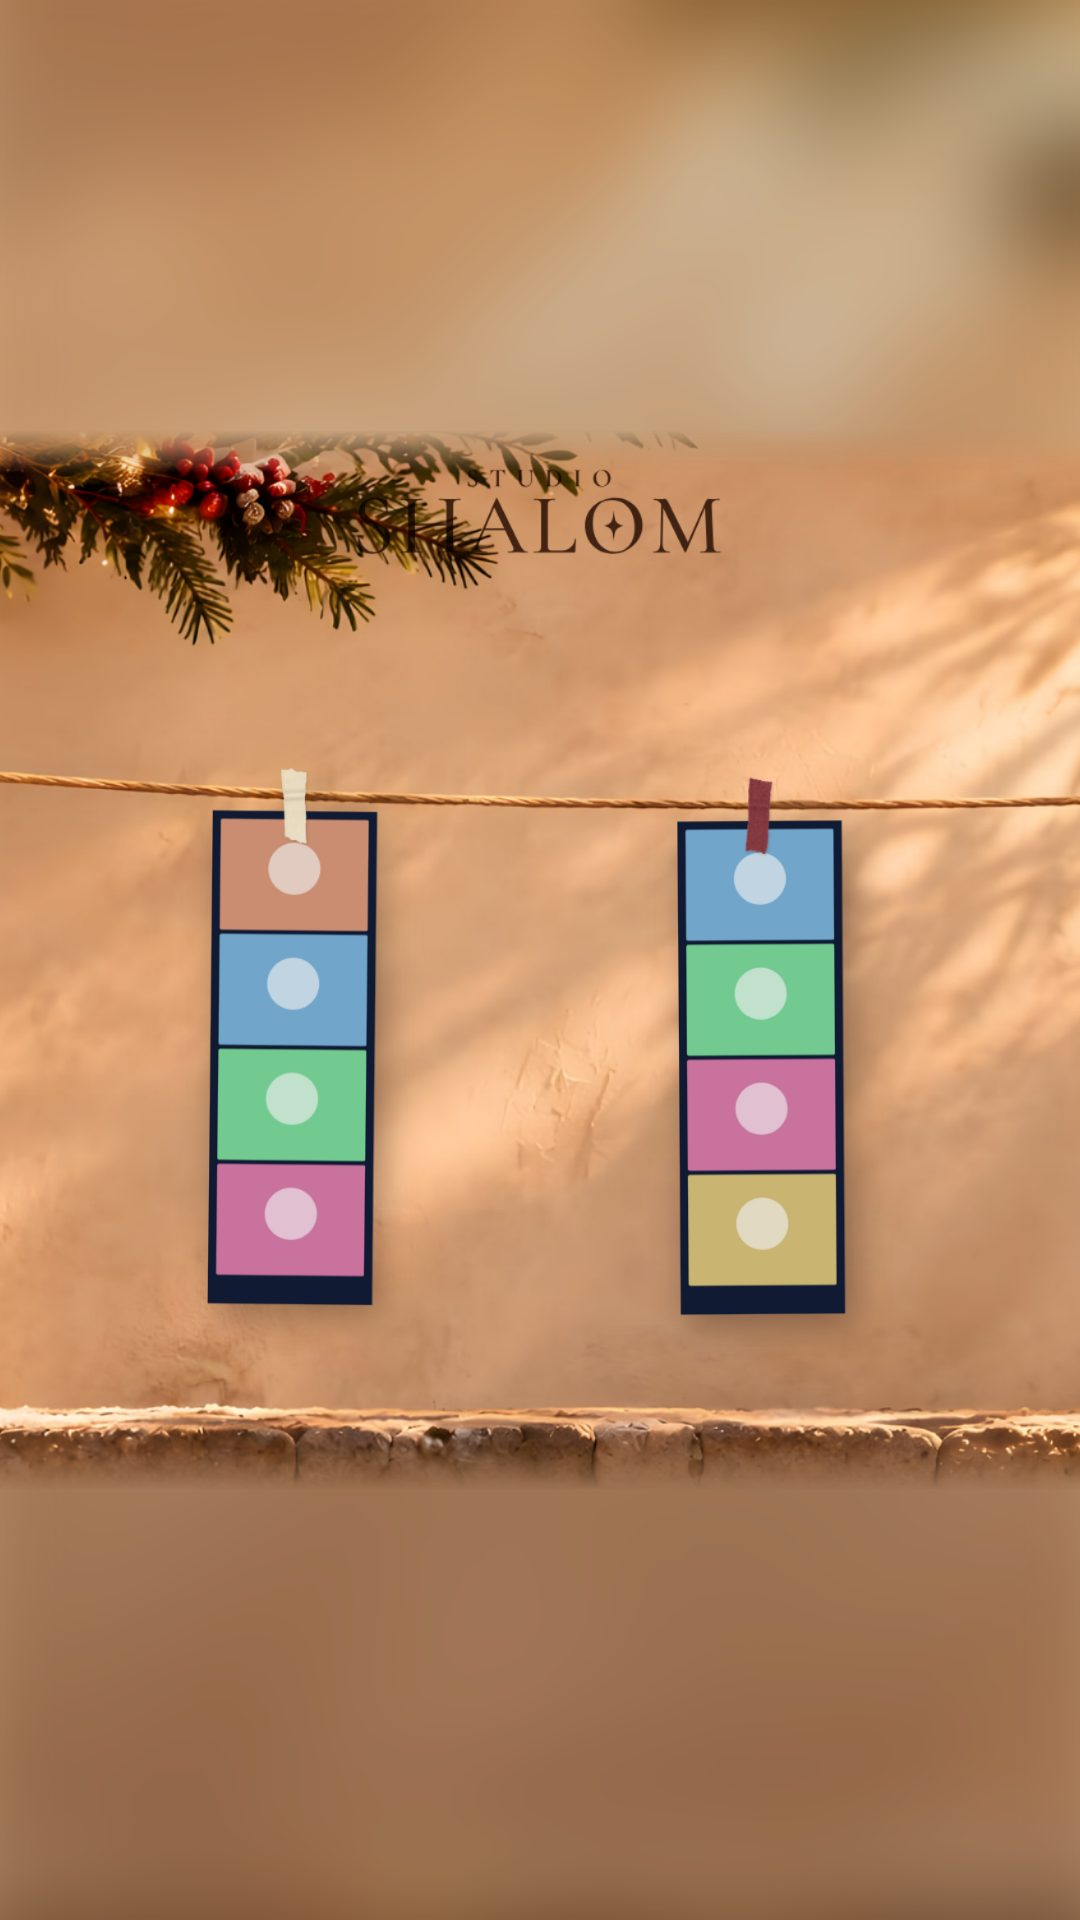
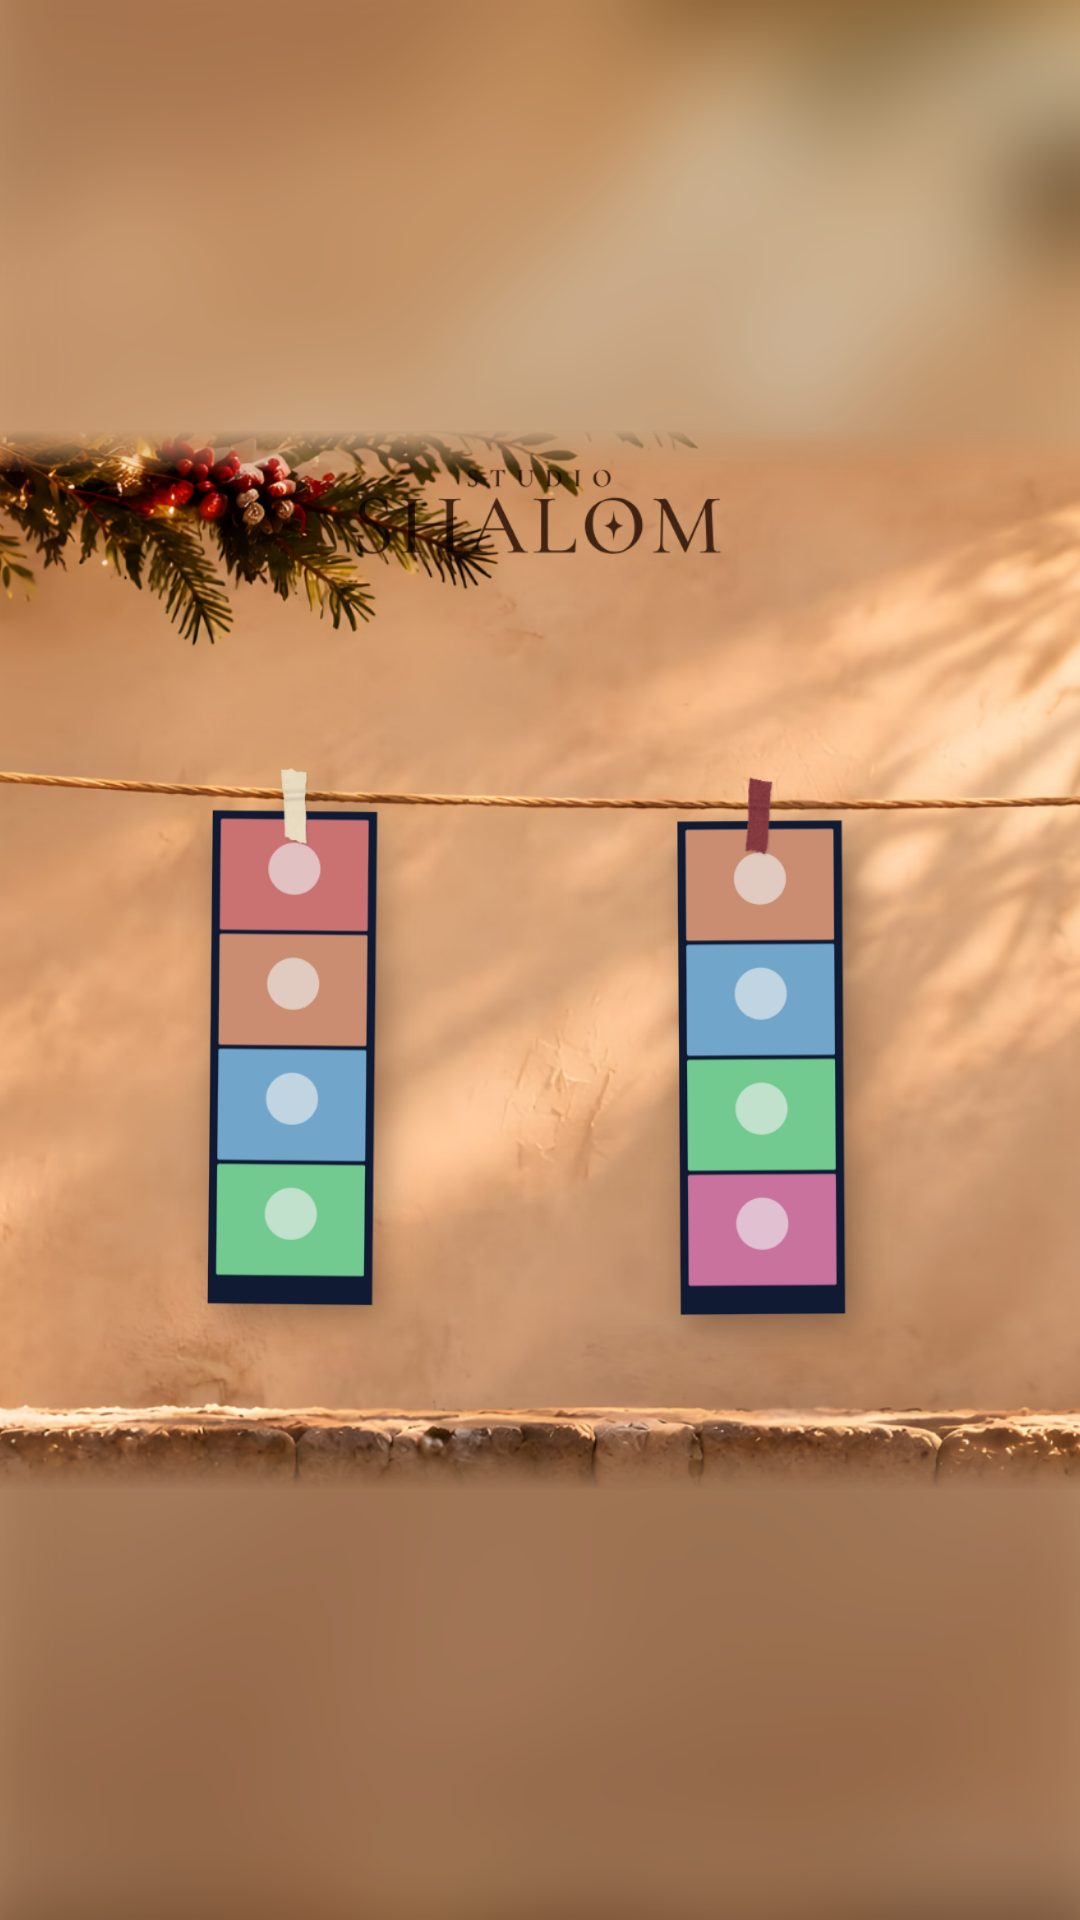
No clothespin anywhere: tape on every wall theme and on frame C (D115)
- star-of-peace and bethlehem: the eight painted pegs are painted out of all
  five pictures of each theme; both hang with TAPE on a line fitted to the rope
- night-window: TAPE instead of the brass clip (clip-brass.svg removed)
- frame C (clothesline): the four clothespins are the wall's paper tapes
- docs: D115, STATUS, design/README, MEDIA_WALL_ARCHITECTURE

Claude-Session: https://claude.ai/code/session_01NhCrP683anWVTxFxXyAyqt

Changed region(s): [[0.6111, 0.4062, 0.7944, 0.6875], [0.1833, 0.4062, 0.3667, 0.6875]]

diff --git a/config/wall-themes.ts b/config/wall-themes.ts
@@ -55,18 +55,6 @@ const TAPE: WallClip = {
   lineY: 34,
   tilts: [-4, 3, -2, 5, -3],
 };
-/**
- * The old brass clip, where it has always been drawn: 37 × 70, a 22.4 × 56 clip at (7, 2.8) whose
- * top is 26 px above the line, so it reaches 10 px over the strip top.
- */
-const BRASS: WallClip = {
-  kind: "clip",
-  image: WALL_CONFIG.scene.clip,
-  width: 37,
-  height: 70,
-  centerX: 18.2,
-  lineY: 28.8,
-};
 const TWINE = "#B48F5E";
 const FIGMA = "Figma SS 03";
 
@@ -136,7 +124,7 @@ const BASE_THEMES: readonly WallTheme[] = [
   {
     id: "star-of-peace",
     name: "성탄의 별 · 설경 · 기억의 빨랫줄",
-    note: "설산 위 성탄의 별. 그림 속 집게에 사진이 걸려요",
+    note: "설산 위 성탄의 별. 사진은 빨랫줄에 테이프로 붙어요",
     source: `${FIGMA} · S02 (354:24)`,
     status: "current",
     background: "/wall/themes/star-of-peace.jpg",
@@ -146,8 +134,8 @@ const BASE_THEMES: readonly WallTheme[] = [
     tone: "light",
     scene: {
       ...CANVAS,
-      line: { midX: 1900, y0: 368, curve: 2.52e-5 },
-      strip: { width: 170, height: 510, drop: 0 },
+      line: { midX: 1864, y0: 330.3, curve: 3.5e-5 },
+      strip: { width: 170, height: 510, drop: 16 },
       slots: [
         { x: 706, tilt: -0.5 },
         { x: 1402, tilt: 0.4 },
@@ -156,8 +144,9 @@ const BASE_THEMES: readonly WallTheme[] = [
       ],
     },
     liteSlots: [0, 1, 2, 3],
-    // The painted pegs: top at y 240, the hang point under them at about 370 (measured).
-    hang: { kind: "in-picture", reach: 130 },
+    // The picture's eight painted pegs were painted out (2026-11-24, D115); the line follows the
+    // rope itself (fitted to the rope's centre, 272 of 300 columns, s.d. 1.7 px).
+    hang: TAPE,
     rope: null,
     wideMax: 440,
     wordmark: { x: 1920, y: 118, size: 76, tone: "ink" },
@@ -177,8 +166,8 @@ const BASE_THEMES: readonly WallTheme[] = [
     tone: "dark",
     scene: {
       ...CANVAS,
-      line: { midX: 1900, y0: 328, curve: 2.38e-5 },
-      strip: { width: 150, height: 450, drop: 0 },
+      line: { midX: 1904, y0: 295.7, curve: 2.91e-5 },
+      strip: { width: 150, height: 450, drop: 16 },
       slots: [
         { x: 758, tilt: -0.5 },
         { x: 1418, tilt: 0.4 },
@@ -187,8 +176,9 @@ const BASE_THEMES: readonly WallTheme[] = [
       ],
     },
     liteSlots: [0, 1, 2, 3],
-    // The painted pegs: top at y 222, the hang point under them at about 330 (measured).
-    hang: { kind: "in-picture", reach: 108 },
+    // The picture's eight painted pegs were painted out (2026-11-24, D115); the line follows the
+    // rope itself (fitted to the rope's centre, 272 of 300 columns, s.d. 1.4 px).
+    hang: TAPE,
     rope: null,
     wideMax: 400,
     wordmark: { x: 1920, y: 48, size: 104, tone: "cream" },
@@ -327,7 +317,7 @@ const BASE_THEMES: readonly WallTheme[] = [
     tone: "dark",
     scene: WALL_CONFIG.scene,
     liteSlots: WALL_CONFIG.liteSlots,
-    hang: BRASS,
+    hang: TAPE,
     rope: null,
     wideMax: 340,
     wordmark: null,
@@ -344,12 +334,11 @@ const BASE_THEMES: readonly WallTheme[] = [
  *
  * - `top`: rows of the scaled original above the theme's own picture (the script's `top`).
  * - `left`: board pixels cut from the left. 778 = the right edge of the original, which keeps
- *   the cross (and the chapel) whole. Star of peace cannot keep the cross with four pegs free of
- *   it, so its board leaves the cross out entirely (it ends 33 px before the crossbar) and
+ *   the cross (and the chapel) whole. Star of peace cannot keep the cross with four photos free
+ *   of it, so its board leaves the cross out entirely (it ends 33 px before the crossbar) and
  *   keeps the lantern.
- * - `slots`: Bethlehem's board hangs on the other four pegs (measured in the picture: brightness
- *   peaks of the pegs, corrected by the offset of the four known ones), because its first peg is
- *   cut off.
+ * - `slots`: Bethlehem's board uses its own four places along the rope (where the painted pegs
+ *   stood before D115, measured then), because the theme's first place is cut off.
  */
 const BOARD = { width: 3096, height: 1290 } as const;
 const ORIGINAL_3x1 = { width: 2048, height: 682 } as const;

diff --git a/config/frames/clothesline.ts b/config/frames/clothesline.ts
@@ -1,7 +1,16 @@
 import type { FrameDecoration, FrameDefinition, FrameSlot } from "@/lib/compositor/types";
 import { lockupBox, STRIP } from "./shared";
 
-// Template C · Clothesline — 크라프트 종이 + 폴라로이드 + 집게. 미디어월 빨랫줄과 같은 언어.
+// Template C · Clothesline — 크라프트 종이 + 폴라로이드 + 마스킹테이프. 미디어월 빨랫줄과 같은 언어.
+
+/**
+ * The media wall's paper tapes (D114, D115: they replaced the wooden clothespin), one colour per
+ * polaroid. Each picture is a 44 × 96 box with the line 34 px below its top; drawn 30 wide here,
+ * it crosses the 3 px line at its centre and reaches down over the polaroid's top edge.
+ */
+const TAPES = ["cream", "berry", "kraft", "pine"] as const;
+const TAPE = { width: 30, height: (30 * 96) / 44, lineY: (30 * 34) / 44 } as const;
+const TAPE_TILTS = [-4, 3, -2, 5] as const;
 
 /** Each polaroid's centre and tilt, from the Figma groups (bounding box centre, rotate). */
 const POLAROIDS = [
@@ -21,7 +30,7 @@ const slots: FrameSlot[] = POLAROIDS.map(({ cx, cy, deg }) => ({
   rotation: { deg, pivot: { x: cx, y: cy } },
 }));
 
-/** Line, card, photo, pin — and the next line crosses the bottom of the card above it. */
+/** Line, card, photo, tape — and the next line crosses the bottom of the card above it. */
 const rows: FrameDecoration[] = POLAROIDS.flatMap(({ cx, cy, deg }, i): FrameDecoration[] => [
   { type: "rect", x: 0, y: 42 + 370 * i, width: 600, height: 3, color: "#a9774a" },
   {
@@ -38,11 +47,12 @@ const rows: FrameDecoration[] = POLAROIDS.flatMap(({ cx, cy, deg }, i): FrameDec
   { type: "photo", slot: i },
   {
     type: "image",
-    src: "/frames/clothespin.svg",
-    x: 288,
-    y: 16 + 370 * i,
-    width: 24,
-    height: 74,
+    src: `/frames/tape-${TAPES[i]}.png`,
+    x: 300 - TAPE.width / 2,
+    y: 43.5 + 370 * i - TAPE.lineY,
+    width: TAPE.width,
+    height: TAPE.height,
+    rotation: { deg: TAPE_TILTS[i]!, pivot: { x: 300, y: 43.5 + 370 * i } },
   },
 ]);
 

diff --git a/tests/unit/frame-assets.test.ts b/tests/unit/frame-assets.test.ts
@@ -12,12 +12,12 @@ describe("frame assets", () => {
 
   it("loads them all, and leaves a failed one out without throwing", async () => {
     const load = vi.fn(async (src: string) => {
-      if (src.endsWith("clothespin.svg")) throw new Error("404");
+      if (src.endsWith("tape-berry.png")) throw new Error("404");
       return { source: {} as CanvasImageSource, width: 1, height: 1 };
     });
     const { assets, complete } = await loadFrameAssets(FRAMES, load);
     expect(complete).toBe(false);
-    expect(assets.has("/frames/clothespin.svg")).toBe(false);
+    expect(assets.has("/frames/tape-berry.png")).toBe(false);
     expect(assets.has("/frames/navy-lockup.svg")).toBe(true);
     expect(load).toHaveBeenCalledTimes(frameAssetSources(FRAMES).length);
   });

diff --git a/config/wall.ts b/config/wall.ts
@@ -34,7 +34,6 @@ export const WALL_CONFIG = {
     width: 3840,
     height: 1080,
     background: "/wall/background-v3.jpg",
-    clip: "/wall/clip-brass.svg",
     /** Height of the line at x: y0 − curve · (x − midX)². */
     line: { midX: 1900, y0: 304, curve: 3.03e-5 },
     /** A hung strip: a 1:3 four-cut, its top this far below the line. */

diff --git a/docs/MEDIA_WALL_ARCHITECTURE.md b/docs/MEDIA_WALL_ARCHITECTURE.md
@@ -87,15 +87,15 @@
 
 | id               | 이름 (Figma)                     | 원본         | 사진 자리 | 사진을 거는 것           |
 | ---------------- | -------------------------------- | ------------ | --------- | ------------------------ |
-| `peace-wall`     | 평화의 벽 · 십자가 · 겨울 햇살   | S03 (354:28) | 5         | 그림 속 줄 + 나무 집게   |
-| `snowy-chapel`   | 눈 덮인 예배당 · 기억의 빨랫줄   | S01 (354:20) | 5         | 그림 속 줄 + 나무 집게   |
-| `star-of-peace`  | 성탄의 별 · 설경 · 기억의 빨랫줄 | S02 (354:24) | 4         | 그림 속 집게 (하나 건너) |
-| `bethlehem`      | 베들레헴 · 성탄의 별 · 구유      | S04 (354:32) | 4         | 그림 속 집게 (하나 건너) |
-| `sunset-window`  | 붉은 노을 · 크리스마스 해안창    | C01 (354:3)  | 4         | 앱이 그린 줄 + 나무 집게 |
-| `pastel-coast`   | 파스텔 일몰 · 해안 창가          | C02 (354:7)  | 4         | 앱이 그린 줄 + 나무 집게 |
-| `festive-lights` | 전구·포인세티아 · 성탄 바다      | C03 (354:11) | 4         | 그림 속 전구 줄 + 집게   |
-| `winter-sea`     | 차분한 겨울 해안 · 미니멀        | C04 (354:15) | 4         | 앱이 그린 줄 + 나무 집게 |
-| `night-window`   | 제주 밤 11시 창가 (이전 장면)    | FTL v3       | 5         | 그림 속 줄 + 황동 집게   |
+| `peace-wall`     | 평화의 벽 · 십자가 · 겨울 햇살   | S03 (354:28) | 5         | 그림 속 줄 + 테이프      |
+| `snowy-chapel`   | 눈 덮인 예배당 · 기억의 빨랫줄   | S01 (354:20) | 5         | 그림 속 줄 + 테이프      |
+| `star-of-peace`  | 성탄의 별 · 설경 · 기억의 빨랫줄 | S02 (354:24) | 4         | 그림 속 줄 + 테이프      |
+| `bethlehem`      | 베들레헴 · 성탄의 별 · 구유      | S04 (354:32) | 4         | 그림 속 줄 + 테이프      |
+| `sunset-window`  | 붉은 노을 · 크리스마스 해안창    | C01 (354:3)  | 4         | 앱이 그린 줄 + 테이프    |
+| `pastel-coast`   | 파스텔 일몰 · 해안 창가          | C02 (354:7)  | 4         | 앱이 그린 줄 + 테이프    |
+| `festive-lights` | 전구·포인세티아 · 성탄 바다      | C03 (354:11) | 4         | 그림 속 전구 줄 + 테이프 |
+| `winter-sea`     | 차분한 겨울 해안 · 미니멀        | C04 (354:15) | 4         | 앱이 그린 줄 + 테이프    |
+| `night-window`   | 제주 밤 11시 창가 (이전 장면)    | FTL v3       | 5         | 그림 속 줄 + 테이프      |
 
 - 기본값은 `peace-wall`이다. **Claude가 고른 값이고 사용자 확정 전이다.**
 - 캔버스는 3840 × 1080 하나다. 다른 비율의 화면에서는 장면 전체를 화면에 맞춰 넣는다(늘이지 않고,

diff --git a/docs/DECISIONS.md b/docs/DECISIONS.md
@@ -1848,3 +1848,23 @@ PNG) and asked for them in place of the drawn tape of D112, first in Figma, then
   the slots the colours in turn (`clipImage`); every picture keeps the same size and `lineY`, so
   no photo moves and `planWallFit` is unchanged. `tape-washi.svg` is gone; the two themes with
   pegs painted in the picture keep them.
+
+## D115 · No clothespin anywhere: tape on every theme and on frame C (2026-11-24)
+
+The user asked for every clothespin to become tape ("빨래집게는 싹다 테이프로 교체").
+
+- **Wall pictures.** `star-of-peace` and `bethlehem` had eight wooden pegs painted on the rope. They
+  were painted out in all five pictures of each theme (1×, @2x, board 1× and 2×, preview): each peg's
+  box is filled with the real texture beside it (rope twist and sky grain, the rope moved column by
+  column onto the line between the box's edges), its low frequencies replaced by a blend of the
+  box's own edges, then feathered in. Both themes now hang with `TAPE` and their `line` follows the
+  rope (a quadratic fitted to the rope's centre, s.d. under 2 px); `strip.drop` is 16 like the other
+  taped themes. The `in-picture` hang stays in the type for a picture that brings its own clips.
+- **Old scene.** `night-window` hangs with `TAPE` too; the brass clip (`clip-brass.svg`, `BRASS`,
+  `WALL_CONFIG.scene.clip`) is gone.
+- **Frame C (빨랫줄).** The four wooden clothespins (`clothespin.svg`) are the wall's tapes
+  (`public/frames/tape-*.png`: cream, berry, kraft, pine), 30 px wide, crossing the line at their
+  centre, tilted −4°, 3°, −2°, 5°. Only photos already stored use this frame (D113).
+- **Figma.** `Template/C · Clothesline` (SS 02) has `Wall/Tape` layers (the pins are hidden and
+  renamed, not deleted), and the KIOSK thumbnails follow; SS 03 S02·S04 and SS 03E S02·S04 carry
+  `집게 지움 패치 8개` over their pictures; the hidden `05` parts in SS 03E S01–S04 hold tapes.

diff --git a/docs/STATUS.md b/docs/STATUS.md
@@ -4,6 +4,18 @@
 이전 기록 `docs/STATUS_2026-10-12.md`는 PR #7(미디어월) 병합 전 내용이라 "Phase 4 미착수"로 적혀
 있다. 역사 기록으로만 본다.
 
+## 빨래집게 전부 테이프로 (2026-11-24, D115)
+
+사용자 요청: "빨래집게는 싹다 테이프로 교체."
+
+| 항목                                                                              | 상태                                                     |
+| --------------------------------------------------------------------------------- | -------------------------------------------------------- |
+| `star-of-peace`·`bethlehem` 그림 속 나무 집게 8개씩 지움(그림 5종씩), 줄에 테이프 | 구현됨. 지운 48곳을 확대 대조, 테마 테스트·E2E는 PR 본문 |
+| `night-window` 황동 집게 → 테이프                                                 | 구현됨                                                   |
+| 네컷 틀 C(빨랫줄) 집게 4개 → 테이프 4색                                           | 구현됨. 브라우저 합성으로 확인                           |
+| Figma: 틀 C, SS 03·SS 03E 패치, SS 03E 숨은 파츠                                  | 구현됨. Figma 스크린샷으로 확인                          |
+| 실제 TV·LED에서 보기                                                              | **미검증**                                               |
+
 ## 미디어월 테이프 그림 교체 (2026-11-24, D114)
 
 사용자 요청: 직접 만든 마스킹테이프 이미지 6색으로 집게 자리를 바꾸기, Figma 먼저.
